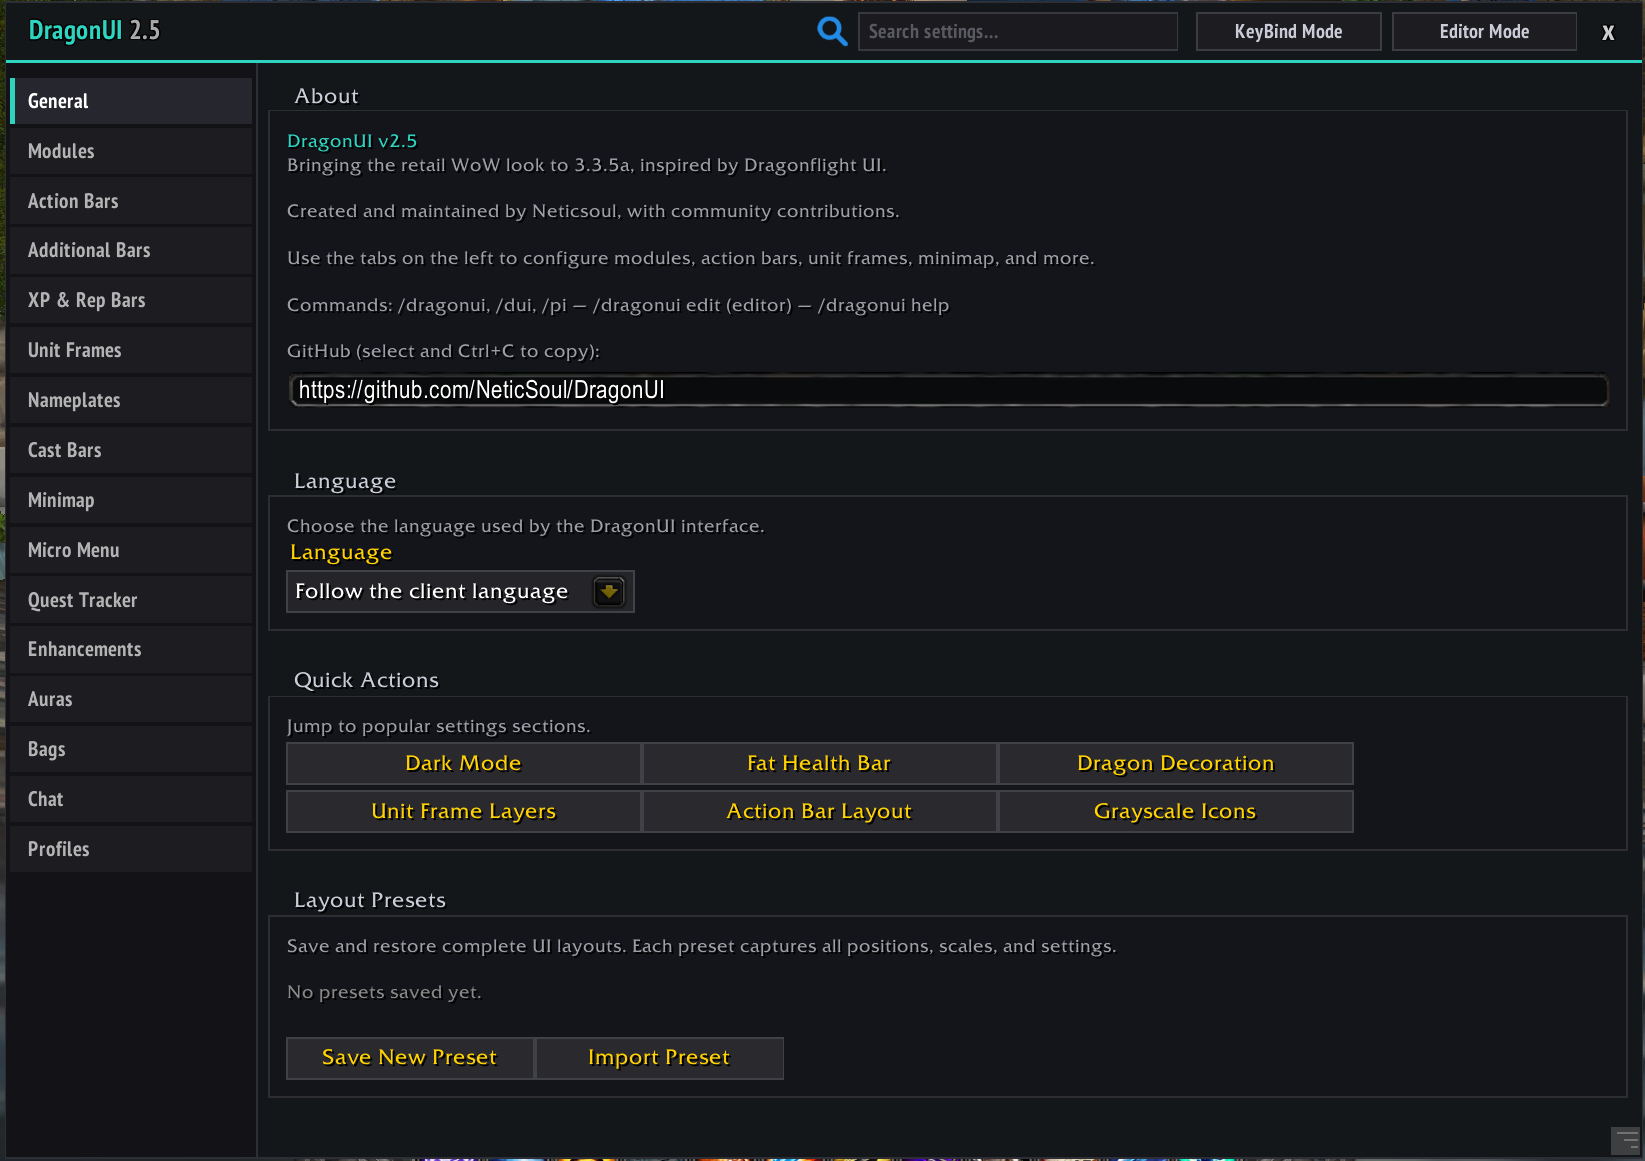
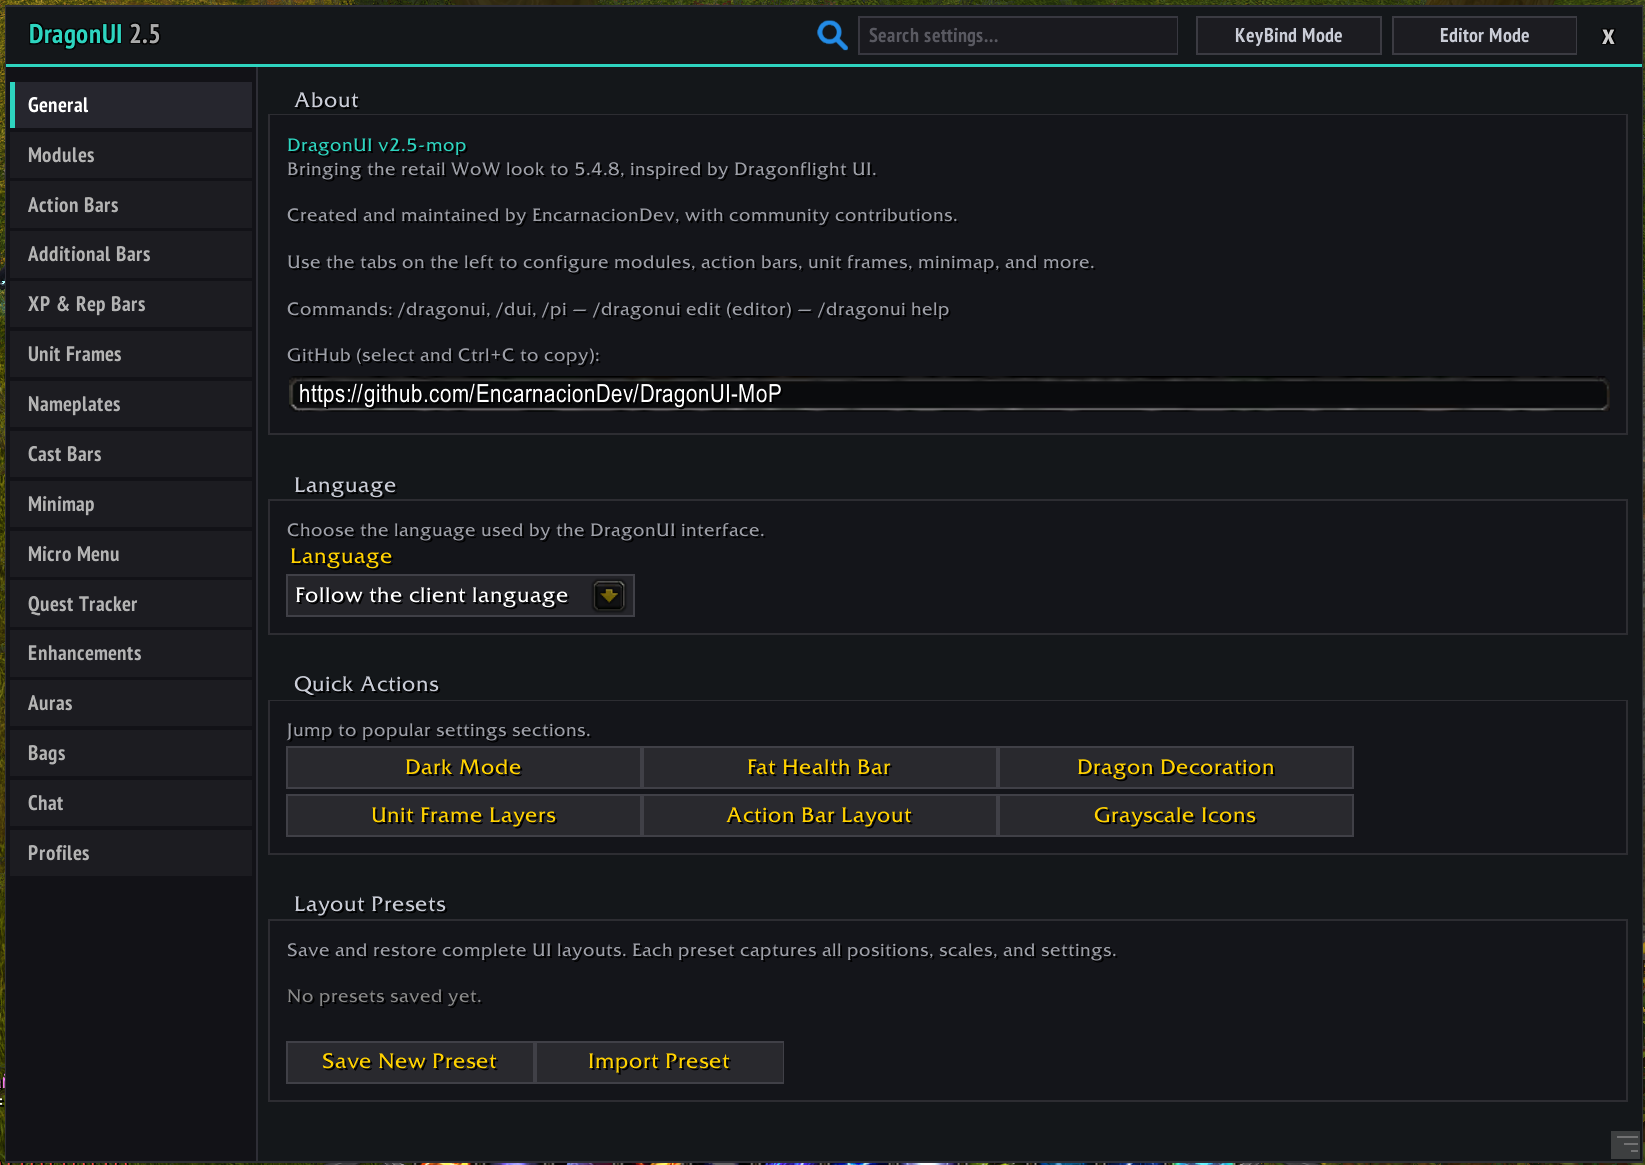
chore: rebrand to EncarnacionDev and update user-facing version to 5.4.8

diff --git a/README.md b/README.md
@@ -154,11 +154,5 @@ DragonUI is released under the [MIT License](LICENSE). Bundled third-party compo
 
 ## 📎 Disclaimer
 
-DragonUI is a free, fan-made addon. No content is sold and no in-game advantages are provided. Donations are entirely voluntary. Not affiliated with or endorsed by Blizzard Entertainment.
-
-## ☕ Support The Project
-
-[![ko-fi](https://ko-fi.com/img/githubbutton_sm.svg)](https://ko-fi.com/neticsoul)
-
-🪙 Bitcoin: `bc1q8yavz8857lzdfttas584892gf82y0u3wdfjz0a`
+DragonUI is a free, fan-made addon. No content is sold and no in-game advantages are provided. Not affiliated with or endorsed by Blizzard Entertainment.
 

diff --git a/THIRD_PARTY_NOTICES.md b/THIRD_PARTY_NOTICES.md
@@ -1,6 +1,6 @@
 # Third-Party Notices
 
-DragonUI's own code is released under the MIT License (see [LICENSE](https://github.com/NeticSoul/DragonUI/blob/main/LICENSE)).
+DragonUI's own code is released under the MIT License (see [LICENSE](https://github.com/EncarnacionDev/DragonUI-MoP/blob/main/LICENSE)).
 
 This file exists because the addon bundles components with licenses that differ from MIT and need to be distributed alongside the project.
 

diff --git a/.github/ISSUE_TEMPLATE/feature_request.md b/.github/ISSUE_TEMPLATE/feature_request.md
@@ -3,7 +3,7 @@ name: Feature request
 about: Suggest an idea or improvement for DragonUI.
 title: ''
 labels: ''
-assignees: NeticSoul
+assignees: EncarnacionDev
 
 ---
 

diff --git a/.github/ISSUE_TEMPLATE/bug_report.md b/.github/ISSUE_TEMPLATE/bug_report.md
@@ -3,7 +3,7 @@ name: Bug report
 about: Report a bug to help improve DragonUI.
 title: ''
 labels: ''
-assignees: NeticSoul
+assignees: EncarnacionDev
 
 ---
 
